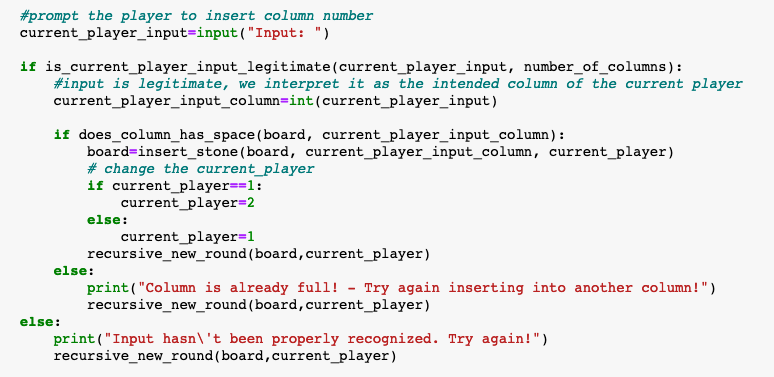
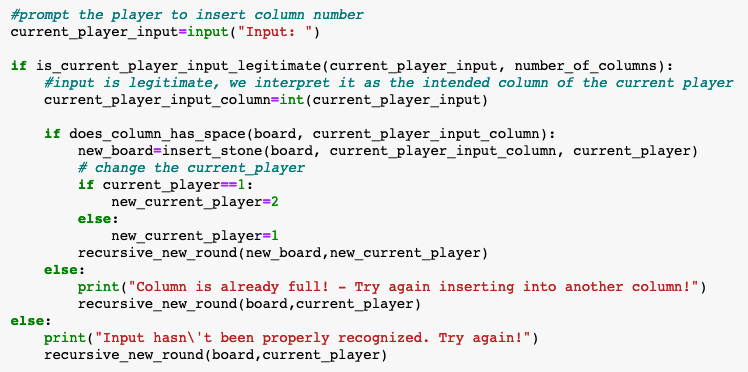
Functional - afterbirth operations

diff --git a/src/four_wins_functions_functional.py b/src/four_wins_functions_functional.py
@@ -30,11 +30,12 @@ def does_column_has_space(board, current_player_input_column):
 def walk_recursively_through_pitch(board, one_d_array, current_row, current_column, rows, columns, insert_row_0_indexed, insert_column_0_indexed, to_be_inserted):
     # fundamental decision: what gets inserted into the new _to be array one_d_array_new?
     if current_column == insert_column_0_indexed and current_row == insert_row_0_indexed:
-        #push on a new number, and pop the first number (don't worry about it, it's by design)
-        new_one_d_array=np.append(one_d_array[1:], to_be_inserted)
+        #push on a new number
+        new_one_d_array=np.append(one_d_array, to_be_inserted)
     else:
-        #push on a new number, and pop the first number (don't worry about it, it's by design)
-        new_one_d_array=np.append(one_d_array[1:], board[current_row][current_column])
+        #push on a new number
+        new_one_d_array=np.append(one_d_array, board[current_row][current_column])
+
     # walking one step further through the board now..
      # walked till the end of the row?
     if current_column + 1 == columns:
@@ -58,8 +59,7 @@ def walk_through_pitch_replace_one_number(board, insert_row_0_indexed, insert_co
     rows=board.shape[0]
     columns=board.shape[1]
     # trick: 2D to 1D in order to get functional
-    number_of_places_one_needs_to_transform_a_2D_matrix_into_1D= rows*columns
-    one_d_array=np.zeros(number_of_places_one_needs_to_transform_a_2D_matrix_into_1D, dtype=np.int8)
+    one_d_array=np.zeros(0, dtype=np.int8)
     # we need to call the recursive function with the walking variable current_column (instantiated with 0)
     # as well as a one_d_array --- a 1D data structure that allows push and pop (in contrast to 2D data structures)
     new_one_d_array=walk_recursively_through_pitch(board, one_d_array, 0, 0, rows, columns, insert_row_0_indexed, insert_column_0_indexed,  to_be_inserted)
@@ -214,10 +214,10 @@ def recursive_new_round(board,current_player):
                 new_board=insert_stone(board, current_player_input_column, current_player)
                 # change the current_player 
                 if current_player==1:
-                    current_player=2
+                    new_current_player=2
                 else:
-                    current_player=1
-                recursive_new_round(new_board,current_player)
+                    new_current_player=1
+                recursive_new_round(new_board,new_current_player)
             else:
                 print("Column is already full! - Try again inserting into another column!")
                 recursive_new_round(board,current_player)
